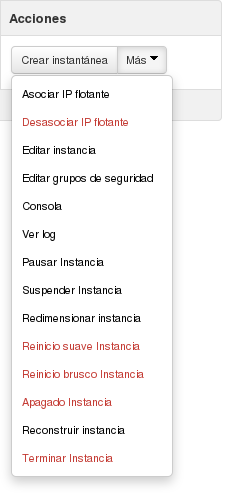
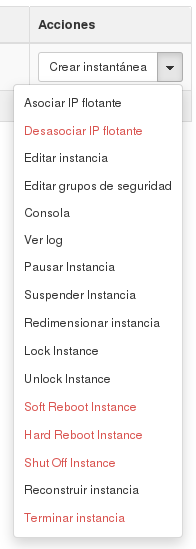
Cambio imágenes de kilo

Changed region(s): [[0.0, 0.03, 0.9796, 0.99], [0.0, 0.0, 0.0306, 0.03]]

diff --git a/curso/u3/operaciones.md b/curso/u3/operaciones.md
@@ -63,3 +63,5 @@ creada son las siguientes:
 * **Consola**: Por último, podemos acceder a una **consola VNC** para manejar nuestra
   instancia como si se tratase de una máquina virtual, aunque deberá estar
   definida previamente la contraseña del usuario.
+
+  lock y unlock
